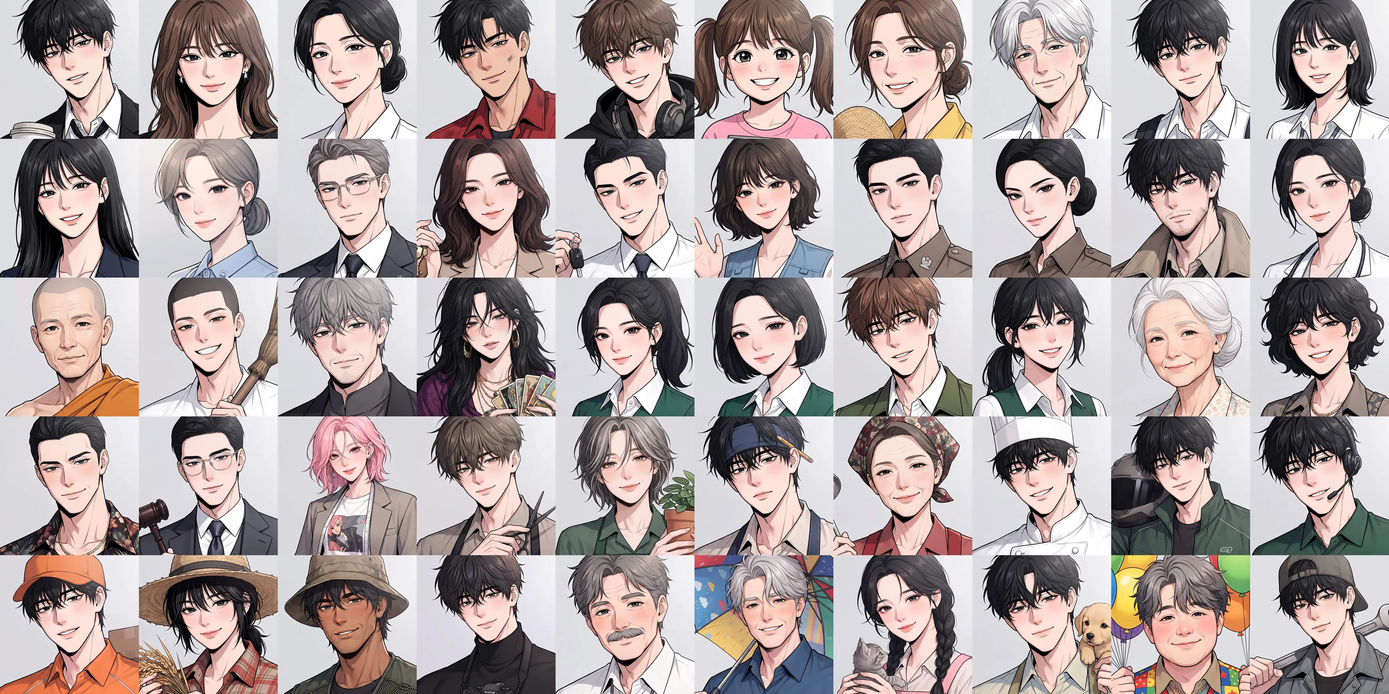
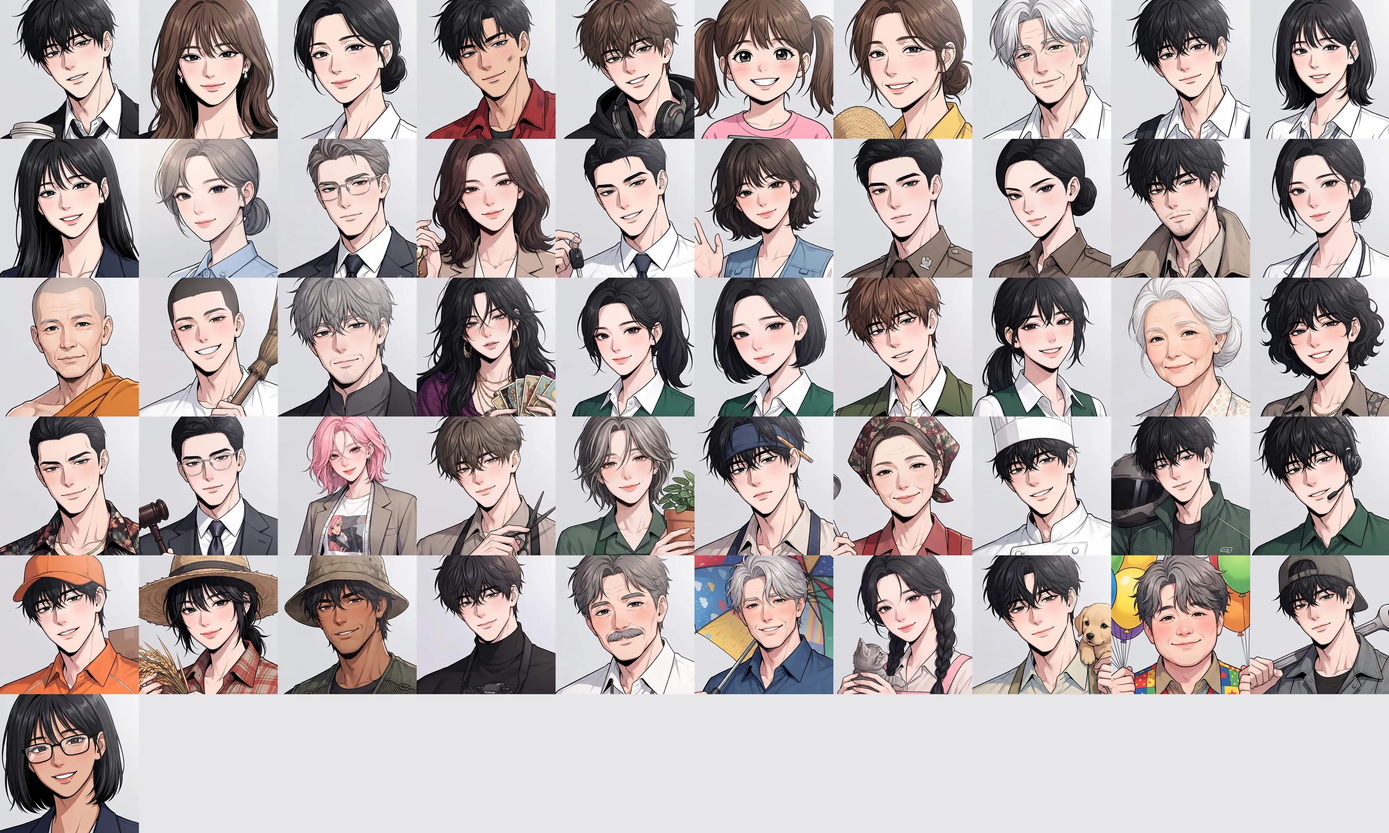
Condo Praew gets her own painted portrait (glasses, bob) instead of sharing the office Praew picture
Claude-Session: https://claude.ai/code/session_011vTRLcvJmqJKhBboYRSi88

diff --git a/public/game.js b/public/game.js
@@ -5499,13 +5499,13 @@ const PICS = { 'พี่โจ้': 'joe', 'คุณเมย์': 'may', 'ป
   'ผู้กองเอก': 'ek', 'ดาบหญิงสมศรี': 'somsri', 'ผู้กองเดช': 'det', 'หมอแพร': 'prae', 'หลวงพ่อเย็น': 'yen', 'พี่ตุ๋ย': 'tui', 'ลุงสัป': 'sap', 'แม่หมอจันทรา': 'chantra', 'พี่แนน': 'nan', 'น้องฝน': 'fon',
   'น้องภูมิ': 'poom', 'น้องแพร': 'praeshop', 'ยายบุญ': 'boon', 'เจ๊ศรี': 'sri', 'เสี่ยเสือ': 'suea', 'เฮียชัย': 'chai', 'น้องมุก': 'muk', 'ช่างโอ๋': 'oh', 'ป้าสายใจ': 'saijai', 'น้องเก่ง': 'keng',
   'ป้าแดง': 'daeng', 'เชฟหมี': 'mee', 'พี่ต่อ': 'tor', 'พี่แบงค์': 'bank', 'พี่ด่วน': 'duan', 'พี่ข้าวหอม': 'khaohom', 'น้าเล็ก': 'lek', 'พี่โฟกัส': 'focus', 'ลุงจุก': 'juk', 'ลุงชัย': 'umbrella',
-  'น้องมะลิ': 'mali', 'พี่ภูผา': 'phupha', 'ลุงโป่ง': 'pong', 'ช่างเปี๊ยก': 'piak' };
-const PICS_V = 3;
-const PICS_ORDER = ['joe', 'may', 'somjai', 'dam', 'tonkla', 'mprang', 'nuan', 'choei', 'james', 'napa', 'praew', 'nid', 'prasert', 'jim', 'om', 'fah', 'ek', 'somsri', 'det', 'prae', 'yen', 'tui', 'sap', 'chantra', 'nan', 'fon', 'poom', 'praeshop', 'boon', 'sri', 'suea', 'chai', 'muk', 'oh', 'saijai', 'keng', 'daeng', 'mee', 'tor', 'bank', 'duan', 'khaohom', 'lek', 'focus', 'juk', 'umbrella', 'mali', 'phupha', 'pong', 'piak'];
-const PICS_COLS = 10, PICS_ROWS = 5;
+  'น้องมะลิ': 'mali', 'พี่ภูผา': 'phupha', 'ลุงโป่ง': 'pong', 'ช่างเปี๊ยก': 'piak', 'คุณแพรว (นิติบุคคลคอนโด)': 'praewcondo' };
+const PICS_V = 4;
+const PICS_ORDER = ['joe', 'may', 'somjai', 'dam', 'tonkla', 'mprang', 'nuan', 'choei', 'james', 'napa', 'praew', 'nid', 'prasert', 'jim', 'om', 'fah', 'ek', 'somsri', 'det', 'prae', 'yen', 'tui', 'sap', 'chantra', 'nan', 'fon', 'poom', 'praeshop', 'boon', 'sri', 'suea', 'chai', 'muk', 'oh', 'saijai', 'keng', 'daeng', 'mee', 'tor', 'bank', 'duan', 'khaohom', 'lek', 'focus', 'juk', 'umbrella', 'mali', 'phupha', 'pong', 'piak', 'praewcondo'];
+const PICS_COLS = 10, PICS_ROWS = 6;
 
 const picPos = (k, b) => { const i = Math.max(0, PICS_ORDER.indexOf(k)); return `background-size:${PICS_COLS * b}px ${PICS_ROWS * b}px;background-position:-${(i % PICS_COLS) * b}px -${Math.floor(i / PICS_COLS) * b}px`; };
-const picOf = name => PICS[String(name || '').replace(/\s*\(.*$/, '').trim()];
+const picOf = name => PICS[String(name || '').trim()] || PICS[String(name || '').replace(/\s*\(.*$/, '').trim()];
 function dialog(opts) {
   closePanel();
   const pk = picOf(opts.name);
@@ -6965,6 +6965,7 @@ const needCareer = c => job(c) || !G.careers[c] ? '' : `<div class="sub" style="
 
 // what's new: a short summary of every update (newest first). Shown once after each update; also under ⚙ → 🆕 อัปเดต
 const NEWS = [
+  { v: '2026-11-28t', d: '28 พ.ย.', items: ['🏢 <b>คุณแพรวนิติบุคคลมีรูปหน้าแล้ว</b> คุยที่เคาน์เตอร์คอนโดจะเห็นหน้าคุณแพรว (ผมบ็อบใส่แว่น)'] },
   { v: '2026-11-28s', d: '28 พ.ย.', items: ['👨🌾 <b>ลุงทุ่งมีรูปหน้าแล้ว</b> คุยกับลุงทุ่งที่ฟาร์มปศุสัตว์จะเห็นหน้าลุงตอนสนทนา'] },
   { v: '2026-11-28r', d: '28 พ.ย.', items: ['🥩 <b>เนื้อวัวมาแล้ว!</b> โรงวัวให้นม + เนื้อวัว · ไข่ เนื้อหมู เนื้อวัว ขายที่ตลาดกลาง ให้เชฟซื้อไปทำอาหาร', '🍳 <b>เมนูใหม่ในครัว</b> สเต็กเนื้อย่าง · น้ำตกเนื้อ · ข้าวผัดหมูใส่ไข่'] },
   { v: '2026-11-28q', d: '28 พ.ย.', items: ['📜 <b>เควสต์ใหม่ฟาร์มปศุสัตว์</b> คนเลี้ยงสัตว์มีเควสต์ประจำวันและรายสัปดาห์ · ทุกคนมีเควสต์กินของจากฟาร์ม (นม ไข่เจียว กะเพราหมู พุดดิ้ง)', '🗺 <b>มินิแมพอัปเดต</b> เห็นฟาร์ม (รั้ว โรงเรือน ประตูเปิด/ปิด) และวัดจุดใหม่'] },
